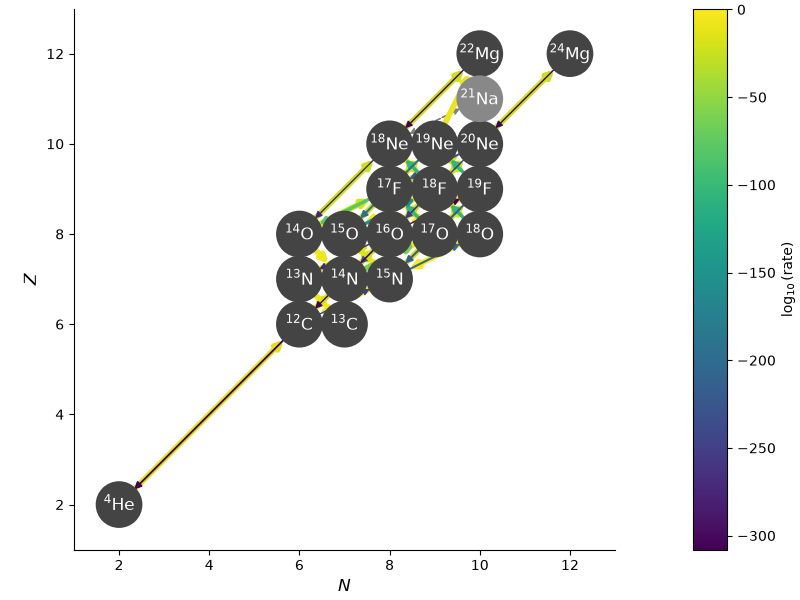
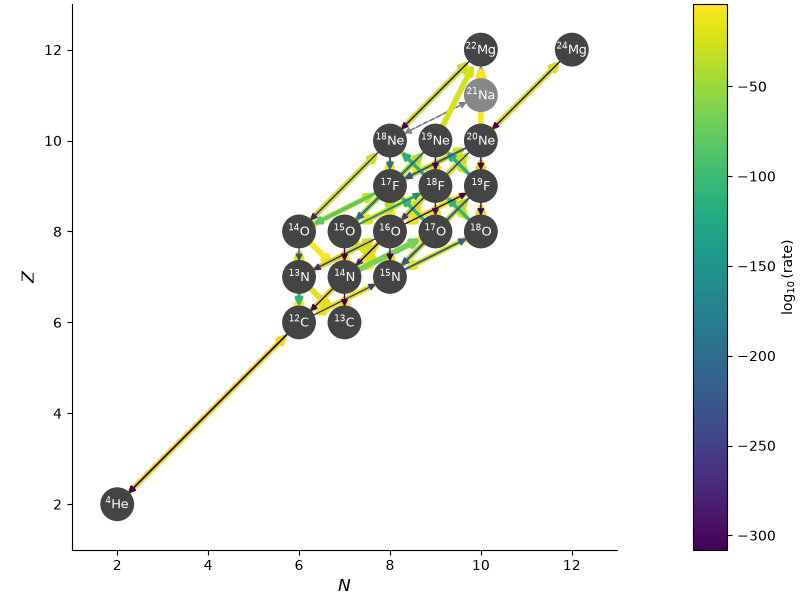
update

diff --git a/networks/CNO_extras/CNO_extras.py b/networks/CNO_extras/CNO_extras.py
@@ -53,16 +53,17 @@ def doit():
 
     net.write_network()
 
-    comp = pyna.Composition(net.get_nuclei())
-    comp.set_solar_like()
+    comp = pyna.Composition(net.get_nuclei(), init="solar")
 
-    rho = 1.e6
+    rho = 1.e4
     T = 1.e8
 
     net.plot(rho, T, comp, outfile="cno_extras.png",
+             node_size=500, node_font_size="9",
              Z_range=[1, 13], N_range=[1, 13])
 
     net.plot(outfile="cno_extras_hide_alpha.png",
+             node_size=500, node_font_size="9",
              Z_range=[1, 13], N_range=[1, 13],
              rotated=True,
              hide_xalpha=True)
